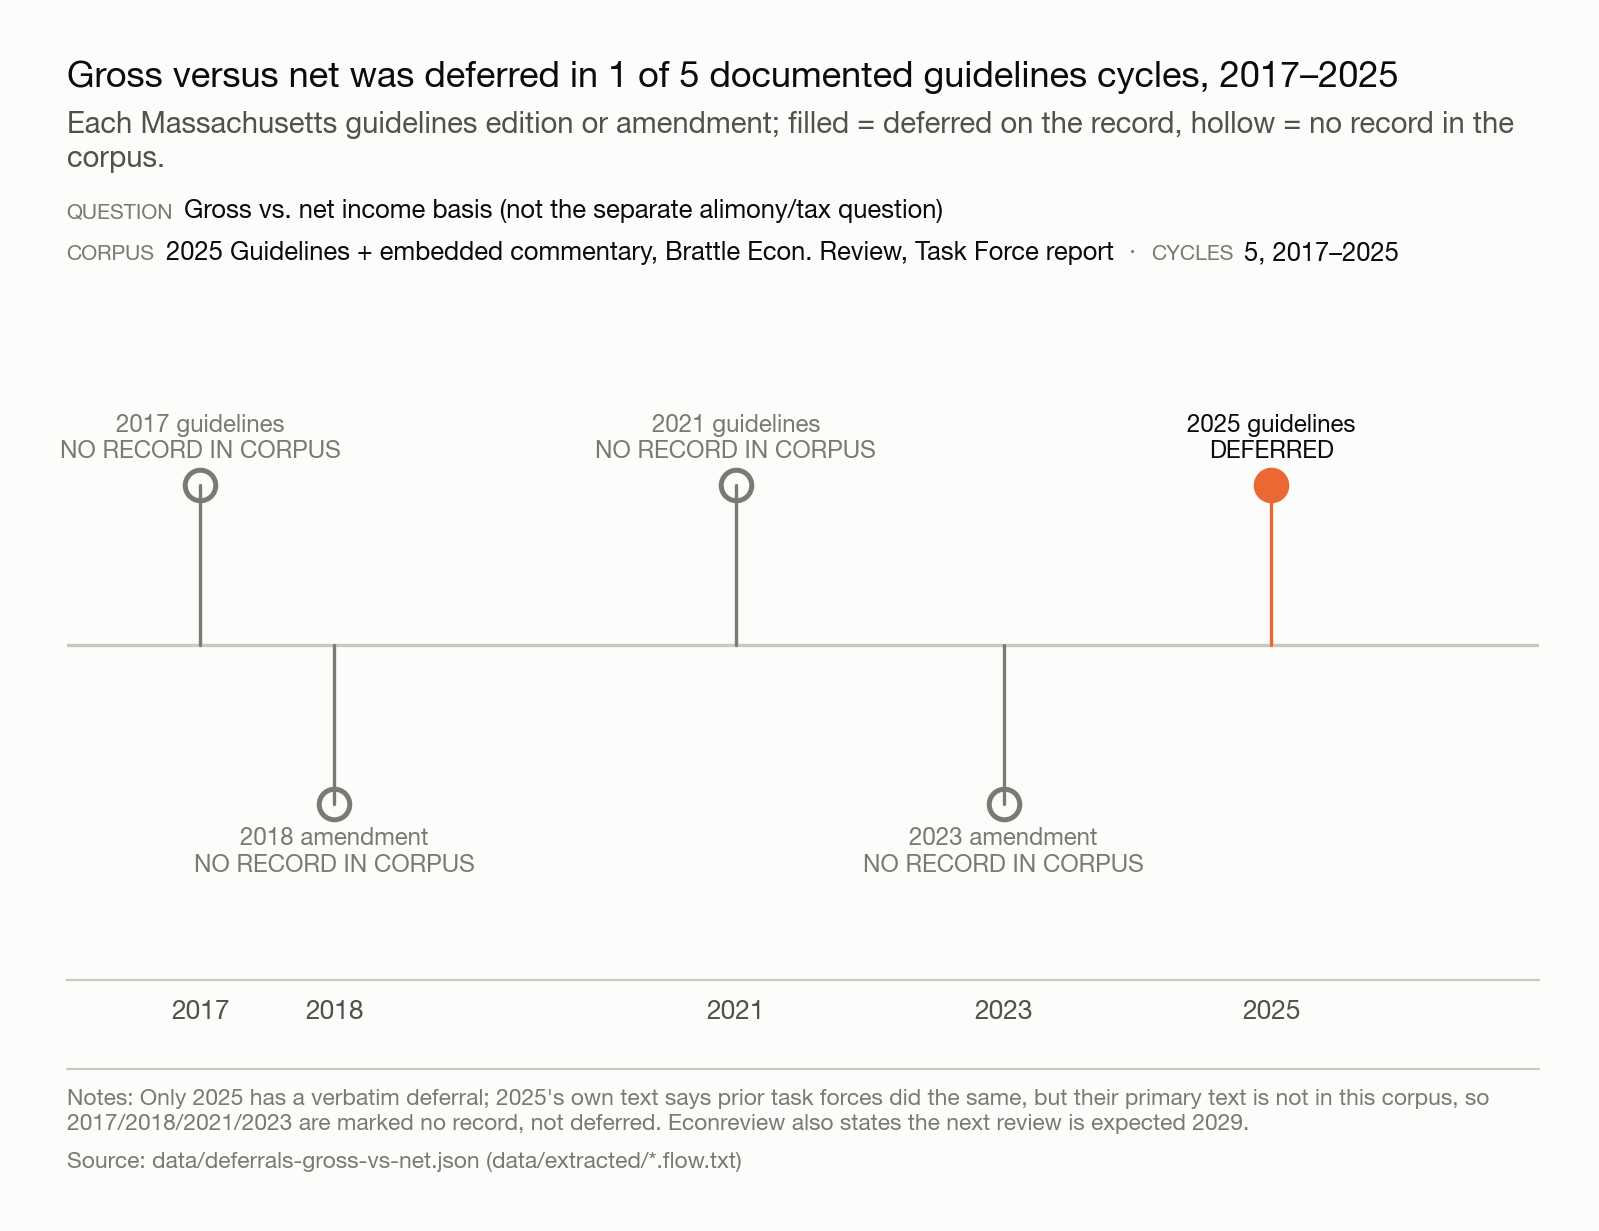
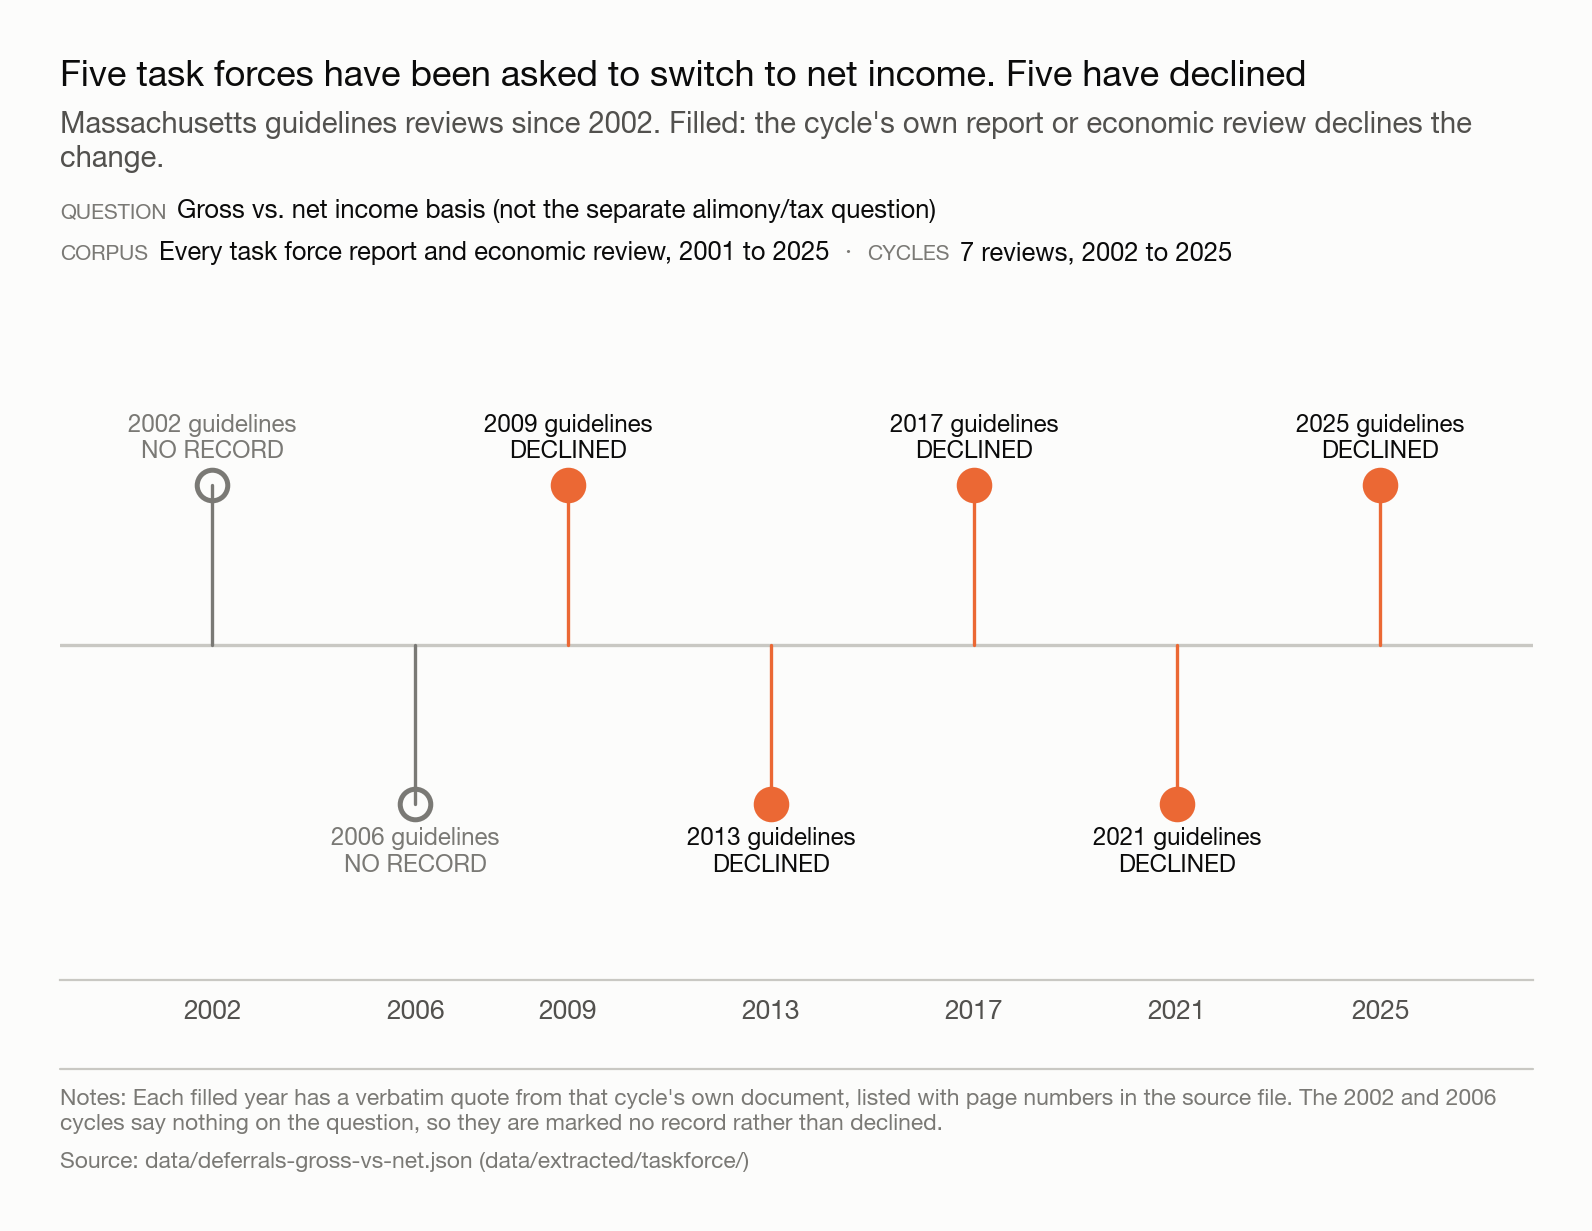
E27: five task forces asked to switch to net income, five declined
Rebuilt from the prior task force reports and economic reviews, 2001-2025, now in the private repo.
2009, 2013, 2017, 2021 and 2025 each decline the change in their own document; 2002 and 2006 say
nothing. Filename kept, per the frozen-path rule.

diff --git a/exhibits/index.md b/exhibits/index.md
@@ -50,7 +50,7 @@ comparison always carries its per-person counterpart.
 20. [In Massachusetts and 22 other states, a parent with the children one night in three pays the same as a parent with no overnights.](#e13)
 21. [Massachusetts's presumptive formula runs to $450,000; 12 schedules run higher, 28 stop lower.](#e16)
 22. [Only Wisconsin and Hawaii order more than Massachusetts does at equal time.](#e17)
-23. [The 2025 review deferred gross versus net again, "as prior task forces have done."](#e27)
+23. [Five task forces have been asked to switch to net income. Five have declined.](#e27)
 
 ## Who holds more after the order
 
@@ -937,22 +937,22 @@ comparison always carries its per-person counterpart.
 
 <figure class="exhibit" id="e27">
   <a class="lightbox-trigger" data-lightbox href="/figures/exhibits/E27-gross-vs-net-deferred-1-of-5-cycles.png"
-     data-caption="The 2025 review deferred gross versus net again, &quot;as prior task forces have done.&quot;"
+     data-caption="Five task forces have been asked to switch to net income. Five have declined."
      data-csv-href="/figures/working/fig11_deferral_timeline.csv" data-csv-label="Data (CSV)">
   <img src="/figures/exhibits/E27-gross-vs-net-deferred-1-of-5-cycles.png"
          loading="lazy"
-         alt="Timeline of five Massachusetts child support guidelines editions and amendments from 2017 to 2025, marking whether the gross-versus-net income question was deferred on the record or not raised in the corpus.">
+         alt="Timeline of seven Massachusetts child support guidelines reviews from 2002 to 2025, marking the five whose own report or economic review declined to move from gross to net income.">
   </a>
   <figcaption>
     <p class="confidence-tag">Documentary: built only from primary-text quotes</p>
-    <h3 class="exhibit-title">The 2025 review deferred gross versus net again, "as prior task forces have done."</h3>
-    <p class="exhibit-deck">Each guidelines edition or amendment since 2017. Filled: deferred on the record in this corpus. Hollow: the earlier task force reports are not yet in the corpus, so no record either way.</p>
+    <h3 class="exhibit-title">Five task forces have been asked to switch to net income. Five have declined.</h3>
+    <p class="exhibit-deck">Massachusetts guidelines reviews since 2002. Filled: the cycle's own report or economic review declines the change.</p>
     <dl class="exhibit-facts">
       <div><dt>Question</dt><dd>Gross vs. net income basis (not the separate alimony/tax question)</dd></div>
-      <div><dt>Corpus</dt><dd>2025 Guidelines + embedded commentary, Brattle Econ. Review, Task Force report</dd></div>
-      <div><dt>Cycles</dt><dd>5, 2017 to 2025</dd></div>
+      <div><dt>Corpus</dt><dd>Every task force report and economic review, 2001 to 2025</dd></div>
+      <div><dt>Cycles</dt><dd>7 reviews, 2002 to 2025</dd></div>
     </dl>
-    <p class="exhibit-notes">Only 2025 carries a verbatim deferral, in the Brattle Economic Review, quoted on the chart. That report says prior task forces did the same, but their primary text isn't in this corpus, so 2017, 2018, 2021, and 2023 are marked no record rather than deferred: the chart states what the corpus supports, not what 2025 claims about years it doesn't document. A separate question, how a support order and an alimony order interact for tax purposes, was also deferred in 2017, but isn't counted here since it isn't the gross-versus-net question. The Economic Review expects the next quadrennial review in 2029.</p>
+    <p class="exhibit-notes">Every filled year carries a verbatim quote from that cycle's own report or economic review, with page numbers in the source file. The 2009 Task Force found "little support ... for basing orders on net income"; the 2012 Task Force "declines to recommend this change." The 2002 and 2006 cycles say nothing on the question.</p>
     <p class="exhibit-source">Source: <code>model/charts/fig11_deferral_timeline.py</code> ·
       <a href="/data/deferrals-gross-vs-net.json">data (JSON)</a> ·
       <a href="/figures/working/fig11_deferral_timeline.csv">data (CSV)</a></p>

diff --git a/findings/fifty-one-jurisdictions/index.md b/findings/fifty-one-jurisdictions/index.md
@@ -517,7 +517,7 @@ question inside its own review process.
    id="e27"
    img="/figures/exhibits/E27-gross-vs-net-deferred-1-of-5-cycles.png"
    alt="Timeline of five Massachusetts child support guidelines editions and amendments from 2017 to 2025, marking which cycles' own primary text records the gross-versus-net income question being raised and deferred."
-   title="The 2025 review deferred gross versus net again, as prior task forces had."
+   title="Five task forces have been asked to switch to net income. Five have declined."
    deck="Every Massachusetts guidelines edition or off-cycle amendment in the corpus (2017, 2018, 2021, 2023, 2025), marked filled where the gross-versus-net income basis question was deferred on the record and hollow where the corpus holds no record of it being raised at all."
    notes="The chart states what the corpus supports, not what the 2025 report claims about years it does not itself document."
    source_script="model/charts/fig11_deferral_timeline.py"
